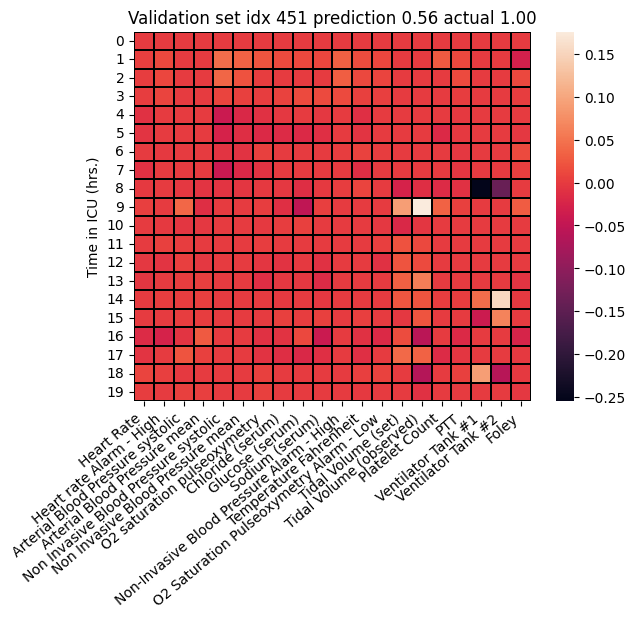
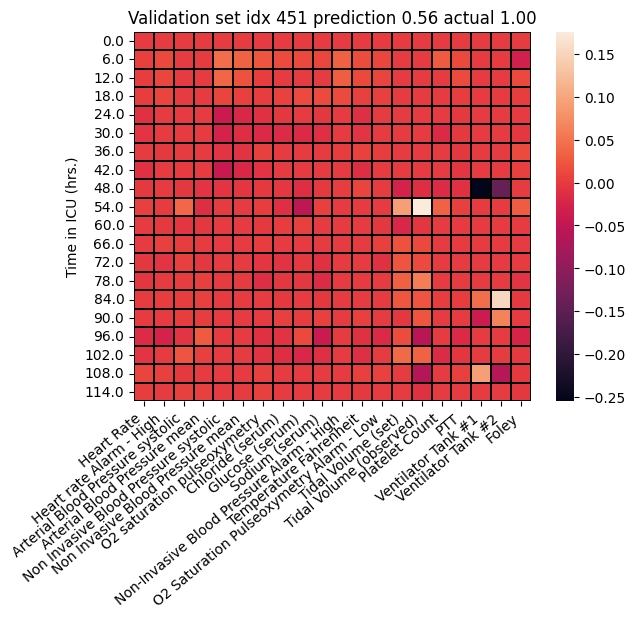
Accurate time markers on heatmap

Changed region(s): [[0.0896, 0.0615, 0.2091, 0.6456]]

diff --git a/src/tabsep/reporting/localImportance.py b/src/tabsep/reporting/localImportance.py
@@ -36,7 +36,7 @@ if __name__ == "__main__":
         columns=[c for c in sample_case.columns if c not in top_n_features]
     )
 
-    sample_case.index = sample_case.index * config.prediction_timesteps
+    sample_case.index = sample_case.index * (config.timestep_seconds / (60 * 60))
 
     sample_case.index.name = "Time in ICU (hrs.)"
 
